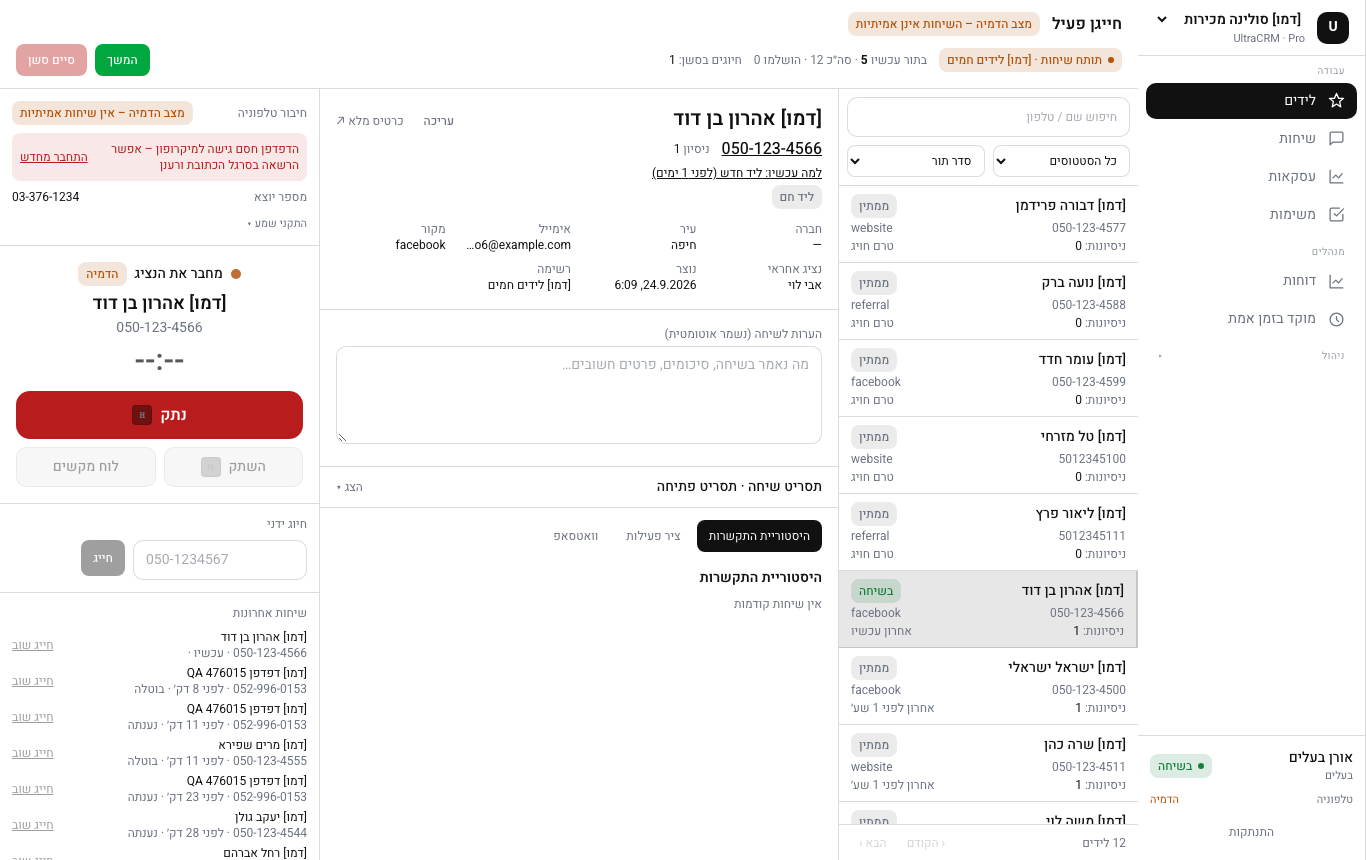
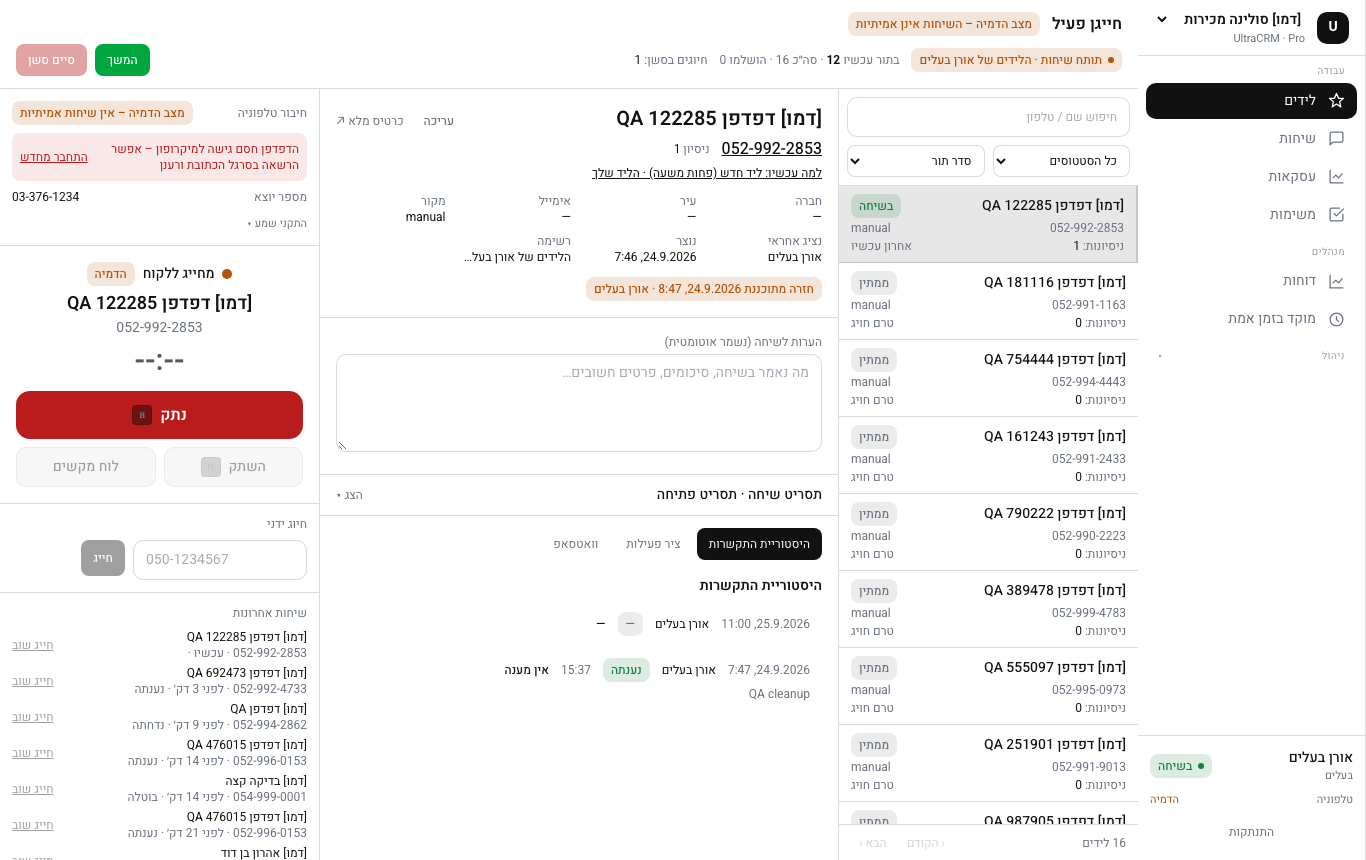
test/docs: workspace QA timing for the personal queue; results

diff --git a/docs/LEAD_WORKSPACE.md b/docs/LEAD_WORKSPACE.md
@@ -37,7 +37,8 @@
 
 ## מה נבדק
 - `tsc`, `eslint`, `vitest` (50 בדיקות יחידה), `next build` – נקיים.
-- `scripts/qa-lead-workspace.mjs` מול הייצור (https://ultracrm-eta.vercel.app, טלפוניה בהדמיה): 11/12 – כניסה נוחתת בלידים עם רצועת העבודה; תפריט מנהל/נציג והרשאות (נציג לא רואה ניהול, `/reports` ו-API המוקד נדחים); הפניות מהנתיבים הישנים; "הפעל חייגן" → דיאלוג תור → חיוג אוטומטי → כרטיס הליד נפתח (לשוניות היסטוריה/ציר זמן/וואטסאפ) → השהיה/המשך → ניתוק → תוצאה → ספירה לאחור לליד הבא → סיום סשן חוזר לרשימה; פאנל ליד שומר סטטוס; WhatsApp נפתח בכרטיס; לשוניות שיחות ו-"חייג חזרה"; מסנני משימות; ארבע לשוניות הדוחות. השלב "חיוג ידני משורה → ניתוק → תוצאה" נכשל בסקריפט על תזמון בלבד ואומת ידנית (ניתוק → פאנל תוצאה תוך 3 שניות).
+- `scripts/qa-lead-workspace.mjs` מול הייצור (https://ultracrm-eta.vercel.app, טלפוניה בהדמיה): 12/13 – כניסה נוחתת בלידים עם רצועת העבודה; תפריט מנהל/נציג והרשאות (נציג לא רואה ניהול, `/reports` ו-API המוקד נדחים); הפניות מהנתיבים הישנים; "הפעל חייגן" → דיאלוג תור → חיוג אוטומטי → כרטיס הליד נפתח (לשוניות היסטוריה/ציר זמן/וואטסאפ) → השהיה/המשך → ניתוק → תוצאה → ספירה לאחור לליד הבא → סיום סשן עם סיכום → חזרה לרשימה; חיוג ידני משורה → ניתוק → תוצאה; פאנל ליד שומר סטטוס; WhatsApp נפתח בכרטיס; לשוניות שיחות ו"חייג חזרה"; מסנני משימות; ארבע לשוניות הדוחות. השלב "הלידים שלי" נכשל בסקריפט על תזמון ואומת ידנית (התור האישי נבנה: 12 זמינים מתוך 16).
+- באגים שנמצאו בדרך ותוקנו: כרטיס הליד בחייגן קרס על תגיות (אובייקטים) ועל איש קשר עם יותר מליד אחד (קרא רשימות חיוג משדה הלידים); סיכום הסשן נשאר פתוח מעל השיחה הבאה; דוח הדיוור דרש הקשר עסק.
 - `qa-browser.mjs` עודכן לנתיבים החדשים.
 
 ## מה לא עובד עדיין / דורש חיבור
